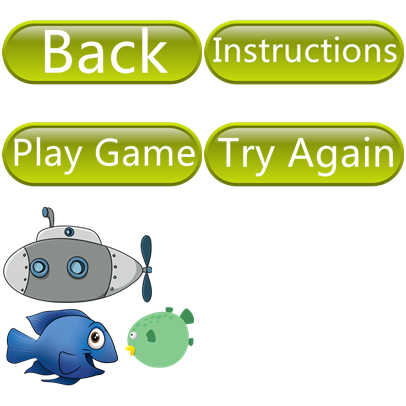
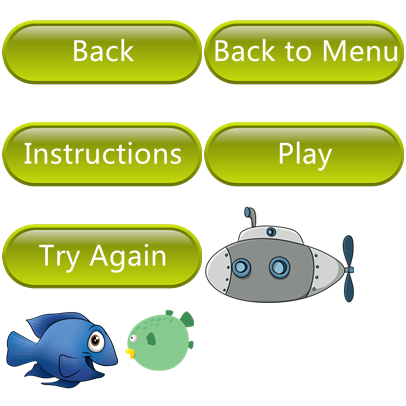
add back to menu button in gameover state and button image modified

diff --git a/mailPilot-v11/Scripts/states/gameover.js b/mailPilot-v11/Scripts/states/gameover.js
@@ -29,6 +29,16 @@ var states;
         changeState(currentState);
     }
     states.tryAgainClicked = tryAgainClicked;
+    // Restart Game when Back to Menu Button is clicked
+    function backToMenuClicked(event) {
+        stage.removeChild(game);
+        game.removeAllChildren();
+        game.removeAllEventListeners();
+        //change to play state
+        currentState = constants.MENU_STATE;
+        changeState(currentState);
+    }
+    states.backToMenuClicked = backToMenuClicked;
     // Game Over Scene
     function gameOver() {
         //labels in game over interface
@@ -51,9 +61,13 @@ var states;
         finalScore = new objects.Label(stage.canvas.width / 2, 160, scoreboard.score.toString());
         game.addChild(finalScore);
         // Display Try Again Button
-        tryAgain = new objects.Button(stage.canvas.width / 2, 300, "btnTryAgain");
+        tryAgain = new objects.Button(stage.canvas.width * 3 / 4, 300, "btnTryAgain");
         game.addChild(tryAgain);
         tryAgain.addEventListener("click", tryAgainClicked);
+        // Display Back to Menu Button
+        backToMenuBtn = new objects.Button(stage.canvas.width / 4, 300, "btnBackMenu");
+        game.addChild(backToMenuBtn);
+        backToMenuBtn.addEventListener("click", backToMenuClicked);
         //add the game container to stage
         stage.addChild(game);
     }

diff --git a/mailPilot-v11/Scripts/states/gameover.ts b/mailPilot-v11/Scripts/states/gameover.ts
@@ -29,6 +29,16 @@ module states {
         changeState(currentState);
     }
 
+    // Restart Game when Back to Menu Button is clicked
+    export function backToMenuClicked(event: MouseEvent) {
+        stage.removeChild(game);
+        game.removeAllChildren();
+        game.removeAllEventListeners();
+        //change to play state
+        currentState = constants.MENU_STATE;
+        changeState(currentState);
+    }
+
     // Game Over Scene
     export function gameOver() {
         //labels in game over interface
@@ -58,9 +68,14 @@ module states {
         game.addChild(finalScore);
 
         // Display Try Again Button
-        tryAgain = new objects.Button(stage.canvas.width / 2, 300, "btnTryAgain");
+        tryAgain = new objects.Button(stage.canvas.width * 3 / 4, 300, "btnTryAgain");
         game.addChild(tryAgain);
         tryAgain.addEventListener("click", tryAgainClicked);
+        
+        // Display Back to Menu Button
+        backToMenuBtn = new objects.Button(stage.canvas.width / 4, 300, "btnBackMenu");
+        game.addChild(backToMenuBtn);
+        backToMenuBtn.addEventListener("click", backToMenuClicked);
 
         //add the game container to stage
         stage.addChild(game);

diff --git a/mailPilot-v11/Scripts/managers/asset.js b/mailPilot-v11/Scripts/managers/asset.js
@@ -20,18 +20,20 @@ var managers;
             [204, 2, 200, 100],
             [2, 104, 200, 100],
             [204, 104, 200, 100],
-            [2, 305, 120, 82],
-            [124, 305, 70, 63],
-            [2, 206, 150, 97]
+            [2, 206, 200, 100],
+            [2, 308, 120, 82],
+            [124, 308, 70, 63],
+            [204, 206, 150, 97]
         ],
         "animations": {
             "btnBack": [0],
-            "btnInstruction": [1],
-            "btnPlay": [2],
-            "btnTryAgain": [3],
-            "fish": [4],
-            "smallFish": [5],
-            "submarine": [6]
+            "btnBackMenu": [1],
+            "btnInstruction": [2],
+            "btnPlay": [3],
+            "btnTryAgain": [4],
+            "fish": [5],
+            "smallFish": [6],
+            "submarine": [7]
         }
     };
     // Asset Manager Class

diff --git a/mailPilot-v11/Scripts/managers/asset.ts b/mailPilot-v11/Scripts/managers/asset.ts
@@ -22,18 +22,21 @@ module managers {
             [204, 2, 200, 100],
             [2, 104, 200, 100],
             [204, 104, 200, 100],
-            [2, 305, 120, 82],
-            [124, 305, 70, 63],
-            [2, 206, 150, 97]
+            [2, 206, 200, 100],
+            [2, 308, 120, 82],
+            [124, 308, 70, 63],
+            [204, 206, 150, 97]
         ],
         "animations": {
+
             "btnBack": [0],
-            "btnInstruction": [1],
-            "btnPlay": [2],
-            "btnTryAgain": [3],
-            "fish": [4],
-            "smallFish": [5],
-            "submarine": [6]
+            "btnBackMenu": [1],
+            "btnInstruction": [2],
+            "btnPlay": [3],
+            "btnTryAgain": [4],
+            "fish": [5],
+            "smallFish": [6],
+            "submarine": [7]
         }
     }
 

diff --git a/mailPilot-v11/Scripts/game.ts b/mailPilot-v11/Scripts/game.ts
@@ -39,6 +39,7 @@ var tryAgain: objects.Button;
 var playButton: objects.Button;
 var instructionBtn: objects.Button;
 var goBackBtn: objects.Button;
+var backToMenuBtn: objects.Button;
 
 //state variables
 var currentState: number;

diff --git a/mailPilot-v11/Scripts/game.js b/mailPilot-v11/Scripts/game.js
@@ -34,6 +34,7 @@ var tryAgain;
 var playButton;
 var instructionBtn;
 var goBackBtn;
+var backToMenuBtn;
 //state variables
 var currentState;
 var currentStateFunction;
